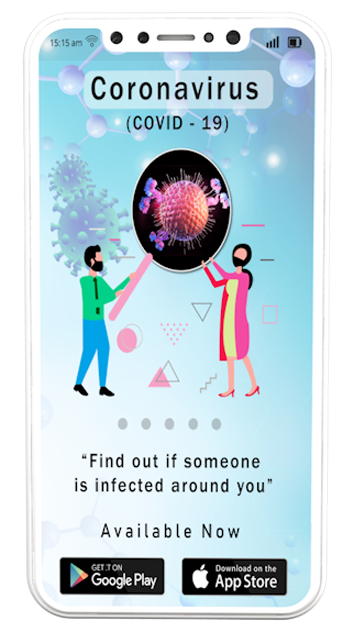
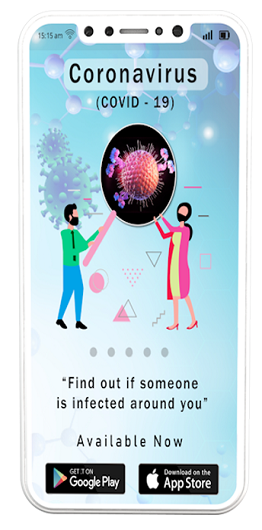
image-2 change

diff --git a/index.html b/index.html
@@ -247,7 +247,7 @@
 					<div class="left col-sm-12 col-md-6">
 						<div class="img-container">
 							<img class="circleicon1 ez-animate animated fadeInUp" src="./Myapp_files/img-circleicon1.png" alt="Appcraft" data-animation="fadeInUp" style="animation-delay: 0s; opacity: 1;">
-							<img class="img-fluid ez-animate animated fadeInLeft" src="./Myapp_files/img-2.png" alt="Appcraft" data-animation="fadeInLeft" style="animation-delay: 0s; opacity: 1;">
+							<img class="img-fluid ez-animate animated fadeInLeft" src="./Myapp_files/images/img-2.png" alt="Appcraft" data-animation="fadeInLeft" style="animation-delay: 0s; opacity: 1;">
 						</div>
 					</div>
 					<div class="right my-auto col-sm-12 col-md-6">

diff --git a/Myapp_files/css/style.css b/Myapp_files/css/style.css
@@ -1205,7 +1205,7 @@ a.animated-button.style2:hover:after {
 	position: absolute;
 	z-index: 9999;
 	top: 40px;
-    right: -95px;
+    right: -80px;
 }
 #section-features2 .left .img-container,
 .section-features2 .left .img-container{
